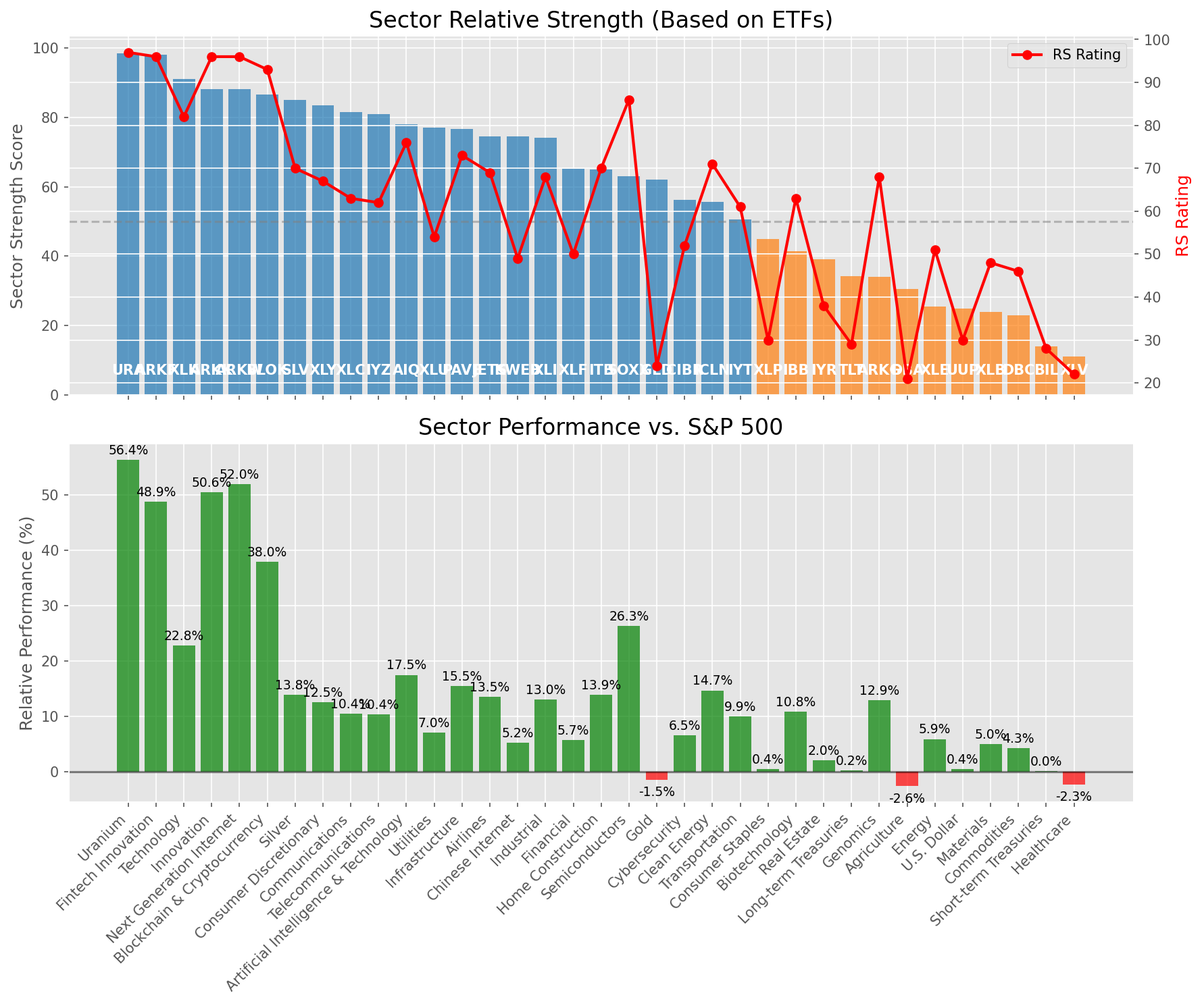
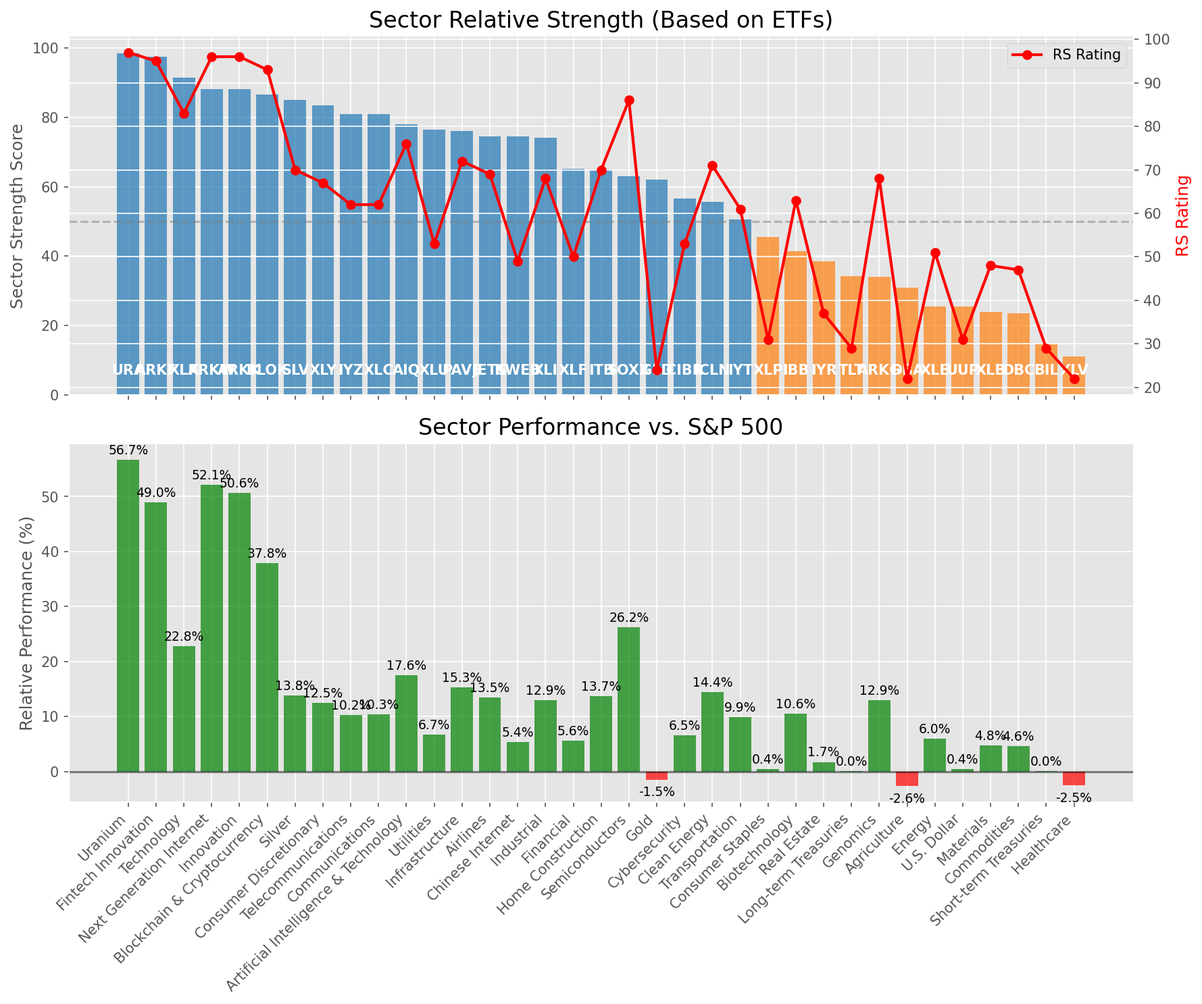
Add market report for 2025-08-06

diff --git a/oneil_relative_strength_report_2025-08-06.md b/oneil_relative_strength_report_2025-08-06.md
@@ -9,11 +9,11 @@
 | Metric | Value |
 |--------|-------|
 | **Market Valuation** | **Overvalued** |
-| **Current Ratio** | 10.26 |
+| **Current Ratio** | 10.25 |
 | **Historical Mean** | 9.62 |
 | **Standard Deviation** | 0.54 |
 | **Z-Score (StdDev from Mean)** | 1.06 |
-| **Total Market Cap** | $311.09 trillion |
+| **Total Market Cap** | $310.87 trillion |
 | **GDP** | $30.33 trillion |
 
 ## **Market Insights**
@@ -49,41 +49,41 @@ Based on William O'Neil's Relative Strength Methodology
 
 | ETF | Strength | RS Rating | Performance | Above Key MAs | Trend | Sector |
 |-----|----------|-----------|-------------|--------------|-------|--------|
-| [URA](https://www.tradingview.com/chart/?symbol=URA) | 98.5 | 97.0 | 56.42% | 10d ✓, 50d ✓, 200d ✓ | ↗ | Uranium |
-| [ARKF](https://www.tradingview.com/chart/?symbol=ARKF) | 98.0 | 96.0 | 48.87% | 10d ✓, 50d ✓, 200d ✓ | ↗ | Fintech Innovation |
-| [XLK](https://www.tradingview.com/chart/?symbol=XLK) | 91.0 | 82.0 | 22.84% | 10d ✓, 50d ✓, 200d ✓ | ↗ | Technology |
-| [ARKK](https://www.tradingview.com/chart/?symbol=ARKK) | 88.1 | 96.0 | 50.58% | 10d ✗, 50d ✓, 200d ✓ | ↗ | Innovation |
-| [ARKW](https://www.tradingview.com/chart/?symbol=ARKW) | 88.1 | 96.0 | 52.01% | 10d ✗, 50d ✓, 200d ✓ | ↗ | Next Generation Internet |
-| [BLOK](https://www.tradingview.com/chart/?symbol=BLOK) | 86.6 | 93.0 | 37.97% | 10d ✗, 50d ✓, 200d ✓ | ↗ | Blockchain & Cryptocurrency |
-| [SLV](https://www.tradingview.com/chart/?symbol=SLV) | 85.0 | 70.0 | 13.82% | 10d ✓, 50d ✓, 200d ✓ | ↗ | Silver |
-| [XLY](https://www.tradingview.com/chart/?symbol=XLY) | 83.5 | 67.0 | 12.49% | 10d ✓, 50d ✓, 200d ✓ | ↗ | Consumer Discretionary |
-| [XLC](https://www.tradingview.com/chart/?symbol=XLC) | 81.5 | 63.0 | 10.43% | 10d ✓, 50d ✓, 200d ✓ | ↗ | Communications |
-| [IYZ](https://www.tradingview.com/chart/?symbol=IYZ) | 81.0 | 62.0 | 10.37% | 10d ✓, 50d ✓, 200d ✓ | ↗ | Telecommunications |
-| [AIQ](https://www.tradingview.com/chart/?symbol=AIQ) | 78.1 | 76.0 | 17.48% | 10d ✗, 50d ✓, 200d ✓ | ↗ | Artificial Intelligence & Technology |
-| [XLU](https://www.tradingview.com/chart/?symbol=XLU) | 77.0 | 54.0 | 7.02% | 10d ✓, 50d ✓, 200d ✓ | ↗ | Utilities |
-| [PAVE](https://www.tradingview.com/chart/?symbol=PAVE) | 76.6 | 73.0 | 15.50% | 10d ✗, 50d ✓, 200d ✓ | ↗ | Infrastructure |
-| [JETS](https://www.tradingview.com/chart/?symbol=JETS) | 74.6 | 69.0 | 13.53% | 10d ✗, 50d ✓, 200d ✓ | ↗ | Airlines |
-| [KWEB](https://www.tradingview.com/chart/?symbol=KWEB) | 74.5 | 49.0 | 5.19% | 10d ✓, 50d ✓, 200d ✓ | ↗ | Chinese Internet |
-| [XLI](https://www.tradingview.com/chart/?symbol=XLI) | 74.1 | 68.0 | 13.03% | 10d ✗, 50d ✓, 200d ✓ | ↗ | Industrial |
-| [XLF](https://www.tradingview.com/chart/?symbol=XLF) | 65.1 | 50.0 | 5.71% | 10d ✗, 50d ✓, 200d ✓ | ↗ | Financial |
-| [ITB](https://www.tradingview.com/chart/?symbol=ITB) | 65.0 | 70.0 | 13.91% | 10d ✓, 50d ✓, 200d ✓ | ↘ | Home Construction |
-| [SOXX](https://www.tradingview.com/chart/?symbol=SOXX) | 63.1 | 86.0 | 26.31% | 10d ✗, 50d ✓, 200d ✓ | ↘ | Semiconductors |
-| [GLD](https://www.tradingview.com/chart/?symbol=GLD) | 62.0 | 24.0 | -1.49% | 10d ✓, 50d ✓, 200d ✓ | ↗ | Gold |
-| [CIBR](https://www.tradingview.com/chart/?symbol=CIBR) | 56.2 | 52.0 | 6.52% | 10d ✗, 50d ✗, 200d ✓ | ↗ | Cybersecurity |
-| [ICLN](https://www.tradingview.com/chart/?symbol=ICLN) | 55.6 | 71.0 | 14.66% | 10d ✗, 50d ✓, 200d ✓ | ↘ | Clean Energy |
-| [IYT](https://www.tradingview.com/chart/?symbol=IYT) | 50.6 | 61.0 | 9.95% | 10d ✗, 50d ✓, 200d ✓ | ↘ | Transportation |
-| [XLP](https://www.tradingview.com/chart/?symbol=XLP) | 45.0 | 30.0 | 0.40% | 10d ✓, 50d ✓, 200d ✓ | ↘ | Consumer Staples |
-| [IBB](https://www.tradingview.com/chart/?symbol=IBB) | 41.4 | 63.0 | 10.77% | 10d ✗, 50d ✓, 200d ✗ | ↘ | Biotechnology |
-| [IYR](https://www.tradingview.com/chart/?symbol=IYR) | 39.1 | 38.0 | 2.04% | 10d ✗, 50d ✓, 200d ✓ | ↘ | Real Estate |
-| [TLT](https://www.tradingview.com/chart/?symbol=TLT) | 34.3 | 29.0 | 0.18% | 10d ✓, 50d ✓, 200d ✗ | ↘ | Long-term Treasuries |
+| [URA](https://www.tradingview.com/chart/?symbol=URA) | 98.5 | 97.0 | 56.71% | 10d ✓, 50d ✓, 200d ✓ | ↗ | Uranium |
+| [ARKF](https://www.tradingview.com/chart/?symbol=ARKF) | 97.5 | 95.0 | 48.98% | 10d ✓, 50d ✓, 200d ✓ | ↗ | Fintech Innovation |
+| [XLK](https://www.tradingview.com/chart/?symbol=XLK) | 91.5 | 83.0 | 22.75% | 10d ✓, 50d ✓, 200d ✓ | ↗ | Technology |
+| [ARKW](https://www.tradingview.com/chart/?symbol=ARKW) | 88.1 | 96.0 | 52.10% | 10d ✗, 50d ✓, 200d ✓ | ↗ | Next Generation Internet |
+| [ARKK](https://www.tradingview.com/chart/?symbol=ARKK) | 88.1 | 96.0 | 50.62% | 10d ✗, 50d ✓, 200d ✓ | ↗ | Innovation |
+| [BLOK](https://www.tradingview.com/chart/?symbol=BLOK) | 86.6 | 93.0 | 37.84% | 10d ✗, 50d ✓, 200d ✓ | ↗ | Blockchain & Cryptocurrency |
+| [SLV](https://www.tradingview.com/chart/?symbol=SLV) | 85.0 | 70.0 | 13.80% | 10d ✓, 50d ✓, 200d ✓ | ↗ | Silver |
+| [XLY](https://www.tradingview.com/chart/?symbol=XLY) | 83.5 | 67.0 | 12.50% | 10d ✓, 50d ✓, 200d ✓ | ↗ | Consumer Discretionary |
+| [IYZ](https://www.tradingview.com/chart/?symbol=IYZ) | 81.0 | 62.0 | 10.21% | 10d ✓, 50d ✓, 200d ✓ | ↗ | Telecommunications |
+| [XLC](https://www.tradingview.com/chart/?symbol=XLC) | 81.0 | 62.0 | 10.35% | 10d ✓, 50d ✓, 200d ✓ | ↗ | Communications |
+| [AIQ](https://www.tradingview.com/chart/?symbol=AIQ) | 78.1 | 76.0 | 17.56% | 10d ✗, 50d ✓, 200d ✓ | ↗ | Artificial Intelligence & Technology |
+| [XLU](https://www.tradingview.com/chart/?symbol=XLU) | 76.5 | 53.0 | 6.69% | 10d ✓, 50d ✓, 200d ✓ | ↗ | Utilities |
+| [PAVE](https://www.tradingview.com/chart/?symbol=PAVE) | 76.1 | 72.0 | 15.27% | 10d ✗, 50d ✓, 200d ✓ | ↗ | Infrastructure |
+| [JETS](https://www.tradingview.com/chart/?symbol=JETS) | 74.6 | 69.0 | 13.46% | 10d ✗, 50d ✓, 200d ✓ | ↗ | Airlines |
+| [KWEB](https://www.tradingview.com/chart/?symbol=KWEB) | 74.5 | 49.0 | 5.36% | 10d ✓, 50d ✓, 200d ✓ | ↗ | Chinese Internet |
+| [XLI](https://www.tradingview.com/chart/?symbol=XLI) | 74.1 | 68.0 | 12.91% | 10d ✗, 50d ✓, 200d ✓ | ↗ | Industrial |
+| [XLF](https://www.tradingview.com/chart/?symbol=XLF) | 65.1 | 50.0 | 5.55% | 10d ✗, 50d ✓, 200d ✓ | ↗ | Financial |
+| [ITB](https://www.tradingview.com/chart/?symbol=ITB) | 65.0 | 70.0 | 13.73% | 10d ✓, 50d ✓, 200d ✓ | ↘ | Home Construction |
+| [SOXX](https://www.tradingview.com/chart/?symbol=SOXX) | 63.1 | 86.0 | 26.23% | 10d ✗, 50d ✓, 200d ✓ | ↘ | Semiconductors |
+| [GLD](https://www.tradingview.com/chart/?symbol=GLD) | 62.0 | 24.0 | -1.51% | 10d ✓, 50d ✓, 200d ✓ | ↗ | Gold |
+| [CIBR](https://www.tradingview.com/chart/?symbol=CIBR) | 56.7 | 53.0 | 6.54% | 10d ✗, 50d ✗, 200d ✓ | ↗ | Cybersecurity |
+| [ICLN](https://www.tradingview.com/chart/?symbol=ICLN) | 55.6 | 71.0 | 14.41% | 10d ✗, 50d ✓, 200d ✓ | ↘ | Clean Energy |
+| [IYT](https://www.tradingview.com/chart/?symbol=IYT) | 50.6 | 61.0 | 9.91% | 10d ✗, 50d ✓, 200d ✓ | ↘ | Transportation |
+| [XLP](https://www.tradingview.com/chart/?symbol=XLP) | 45.5 | 31.0 | 0.43% | 10d ✓, 50d ✓, 200d ✓ | ↘ | Consumer Staples |
+| [IBB](https://www.tradingview.com/chart/?symbol=IBB) | 41.4 | 63.0 | 10.56% | 10d ✗, 50d ✓, 200d ✗ | ↘ | Biotechnology |
+| [IYR](https://www.tradingview.com/chart/?symbol=IYR) | 38.6 | 37.0 | 1.73% | 10d ✗, 50d ✓, 200d ✓ | ↘ | Real Estate |
+| [TLT](https://www.tradingview.com/chart/?symbol=TLT) | 34.3 | 29.0 | 0.05% | 10d ✓, 50d ✓, 200d ✗ | ↘ | Long-term Treasuries |
 | [ARKG](https://www.tradingview.com/chart/?symbol=ARKG) | 34.0 | 68.0 | 12.93% | 10d ✗, 50d ✗, 200d ✗ | ↘ | Genomics |
-| [DBA](https://www.tradingview.com/chart/?symbol=DBA) | 30.5 | 21.0 | -2.63% | 10d ✗, 50d ✗, 200d ✗ | ↗ | Agriculture |
-| [XLE](https://www.tradingview.com/chart/?symbol=XLE) | 25.5 | 51.0 | 5.86% | 10d ✗, 50d ✗, 200d ✗ | ↘ | Energy |
-| [UUP](https://www.tradingview.com/chart/?symbol=UUP) | 24.9 | 30.0 | 0.38% | 10d ✗, 50d ✓, 200d ✗ | ↘ | U.S. Dollar |
-| [XLB](https://www.tradingview.com/chart/?symbol=XLB) | 24.0 | 48.0 | 4.97% | 10d ✗, 50d ✗, 200d ✗ | ↘ | Materials |
-| [DBC](https://www.tradingview.com/chart/?symbol=DBC) | 23.0 | 46.0 | 4.26% | 10d ✗, 50d ✗, 200d ✗ | ↘ | Commodities |
-| [BIL](https://www.tradingview.com/chart/?symbol=BIL) | 14.0 | 28.0 | 0.03% | 10d ✗, 50d ✗, 200d ✗ | ↘ | Short-term Treasuries |
-| [XLV](https://www.tradingview.com/chart/?symbol=XLV) | 11.0 | 22.0 | -2.34% | 10d ✗, 50d ✗, 200d ✗ | ↘ | Healthcare |
+| [DBA](https://www.tradingview.com/chart/?symbol=DBA) | 31.0 | 22.0 | -2.63% | 10d ✗, 50d ✗, 200d ✗ | ↗ | Agriculture |
+| [XLE](https://www.tradingview.com/chart/?symbol=XLE) | 25.5 | 51.0 | 5.99% | 10d ✗, 50d ✗, 200d ✗ | ↘ | Energy |
+| [UUP](https://www.tradingview.com/chart/?symbol=UUP) | 25.4 | 31.0 | 0.42% | 10d ✗, 50d ✓, 200d ✗ | ↘ | U.S. Dollar |
+| [XLB](https://www.tradingview.com/chart/?symbol=XLB) | 24.0 | 48.0 | 4.78% | 10d ✗, 50d ✗, 200d ✗ | ↘ | Materials |
+| [DBC](https://www.tradingview.com/chart/?symbol=DBC) | 23.5 | 47.0 | 4.63% | 10d ✗, 50d ✗, 200d ✗ | ↘ | Commodities |
+| [BIL](https://www.tradingview.com/chart/?symbol=BIL) | 14.5 | 29.0 | 0.03% | 10d ✗, 50d ✗, 200d ✗ | ↘ | Short-term Treasuries |
+| [XLV](https://www.tradingview.com/chart/?symbol=XLV) | 11.0 | 22.0 | -2.54% | 10d ✗, 50d ✗, 200d ✗ | ↘ | Healthcare |
 
 ### **Sector ETF Performance Interpretation**
 
@@ -100,75 +100,71 @@ This table shows the relative strength metrics for different market sectors base
 
 The current market leadership is coming from the following sectors: **Uranium, Fintech Innovation, Technology**.
 
-The **Uranium** sector (represented by **URA**) is showing particularly strong relative strength with an RS rating of 97.0 and performance of 56.42% vs. the S&P 500. This sector is trading above its 10-day, 50-day, 200-day moving average(s). Investors should consider focusing on high RS stocks within these leading sectors for potential outperformance.
+The **Uranium** sector (represented by **URA**) is showing particularly strong relative strength with an RS rating of 97.0 and performance of 56.71% vs. the S&P 500. This sector is trading above its 10-day, 50-day, 200-day moving average(s). Investors should consider focusing on high RS stocks within these leading sectors for potential outperformance.
 
 ---
 
 ## **Buy Recommendations**
 
-The following 59 stocks show exceptional relative strength:
+The following 55 stocks show exceptional relative strength:
 
 | RS Rating | Buy Score | Current Price | Chart | Name | Ticker |
 |-----------|-----------|---------------|-------|------|--------|
-| 100 | 100 | $116.48 | [Chart](https://www.tradingview.com/chart/?symbol=CRDO) | Credo Technology Group Holding Ltd Ordinary Shares | CRDO |
-| 100 | 100 | $68.01 | [Chart](https://www.tradingview.com/chart/?symbol=MP) | MP Materials Corp. | MP |
-| 100 | 100 | $196.78 | [Chart](https://www.tradingview.com/chart/?symbol=CLS) | Celestica, Inc. | CLS |
-| 100 | 100 | $248.63 | [Chart](https://www.tradingview.com/chart/?symbol=LEU) | Centrus Energy Corp. | LEU |
-| 99 | 100 | $76.51 | [Chart](https://www.tradingview.com/chart/?symbol=LIF) | Life360, Inc. Common Stock | LIF |
-| 99 | 100 | $211.81 | [Chart](https://www.tradingview.com/chart/?symbol=NET) | Cloudflare, Inc. Class A common stock, par value $0.001 per share | NET |
-| 99 | 100 | $132.05 | [Chart](https://www.tradingview.com/chart/?symbol=RBLX) | Roblox Corporation | RBLX |
-| 98 | 100 | $382.64 | [Chart](https://www.tradingview.com/chart/?symbol=TLN) | Talen Energy Corporation Common Stock | TLN |
-| 98 | 100 | $59.28 | [Chart](https://www.tradingview.com/chart/?symbol=KTOS) | Kratos Defense & Security Solutions, Inc. | KTOS |
-| 98 | 100 | $177.99 | [Chart](https://www.tradingview.com/chart/?symbol=PLTR) | Palantir Technologies Inc. Class A Common Stock | PLTR |
-| 98 | 100 | $661.48 | [Chart](https://www.tradingview.com/chart/?symbol=GEV) | GE Vernova Inc. | GEV |
-| 97 | 100 | $112.41 | [Chart](https://www.tradingview.com/chart/?symbol=TPR) | Tapestry, Inc. Common Stock | TPR |
-| 97 | 100 | $39.03 | [Chart](https://www.tradingview.com/chart/?symbol=NNE) | Nano Nuclear Energy Inc. Common Stock | NNE |
-| 97 | 100 | $187.71 | [Chart](https://www.tradingview.com/chart/?symbol=COOP) | Mr. Cooper Group Inc. Common Stock | COOP |
-| 96 | 100 | $105.25 | [Chart](https://www.tradingview.com/chart/?symbol=VRNA) | Verona Pharma plc | VRNA |
-| 96 | 100 | $53.19 | [Chart](https://www.tradingview.com/chart/?symbol=ARKF) | ARK Fintech Innovation ETF | ARKF |
-| 96 | 100 | $35.80 | [Chart](https://www.tradingview.com/chart/?symbol=ATRO) | Astronics Corp | ATRO |
-| 95 | 100 | $90.34 | [Chart](https://www.tradingview.com/chart/?symbol=RYTM) | Rhythm Pharmaceuticals, Inc. Common Stock | RYTM |
-| 95 | 100 | $875.59 | [Chart](https://www.tradingview.com/chart/?symbol=AXON) | Axon Enterprise, Inc. Common Stock | AXON |
-| 95 | 100 | $116.64 | [Chart](https://www.tradingview.com/chart/?symbol=SANM) | Sanmina  Corp | SANM |
-| 94 | 100 | $51.01 | [Chart](https://www.tradingview.com/chart/?symbol=PTCT) | PTC Therapeutics, Inc. | PTCT |
+| 100 | 100 | $66.94 | [Chart](https://www.tradingview.com/chart/?symbol=MP) | MP Materials Corp. | MP |
+| 100 | 100 | $117.81 | [Chart](https://www.tradingview.com/chart/?symbol=CRDO) | Credo Technology Group Holding Ltd Ordinary Shares | CRDO |
+| 100 | 100 | $247.44 | [Chart](https://www.tradingview.com/chart/?symbol=LEU) | Centrus Energy Corp. | LEU |
+| 100 | 100 | $197.17 | [Chart](https://www.tradingview.com/chart/?symbol=CLS) | Celestica, Inc. | CLS |
+| 99 | 100 | $212.51 | [Chart](https://www.tradingview.com/chart/?symbol=NET) | Cloudflare, Inc. Class A common stock, par value $0.001 per share | NET |
+| 99 | 100 | $132.86 | [Chart](https://www.tradingview.com/chart/?symbol=RBLX) | Roblox Corporation | RBLX |
+| 99 | 100 | $77.18 | [Chart](https://www.tradingview.com/chart/?symbol=LIF) | Life360, Inc. Common Stock | LIF |
+| 98 | 100 | $177.19 | [Chart](https://www.tradingview.com/chart/?symbol=PLTR) | Palantir Technologies Inc. Class A Common Stock | PLTR |
+| 98 | 100 | $382.00 | [Chart](https://www.tradingview.com/chart/?symbol=TLN) | Talen Energy Corporation Common Stock | TLN |
+| 98 | 100 | $661.56 | [Chart](https://www.tradingview.com/chart/?symbol=GEV) | GE Vernova Inc. | GEV |
+| 98 | 100 | $59.72 | [Chart](https://www.tradingview.com/chart/?symbol=KTOS) | Kratos Defense & Security Solutions, Inc. | KTOS |
+| 97 | 100 | $187.76 | [Chart](https://www.tradingview.com/chart/?symbol=COOP) | Mr. Cooper Group Inc. Common Stock | COOP |
+| 97 | 100 | $39.11 | [Chart](https://www.tradingview.com/chart/?symbol=NNE) | Nano Nuclear Energy Inc. Common Stock | NNE |
+| 96 | 100 | $112.06 | [Chart](https://www.tradingview.com/chart/?symbol=TPR) | Tapestry, Inc. Common Stock | TPR |
+| 96 | 100 | $35.33 | [Chart](https://www.tradingview.com/chart/?symbol=ATRO) | Astronics Corp | ATRO |
+| 95 | 100 | $116.17 | [Chart](https://www.tradingview.com/chart/?symbol=SANM) | Sanmina  Corp | SANM |
+| 95 | 100 | $877.37 | [Chart](https://www.tradingview.com/chart/?symbol=AXON) | Axon Enterprise, Inc. Common Stock | AXON |
+| 95 | 100 | $53.23 | [Chart](https://www.tradingview.com/chart/?symbol=ARKF) | ARK Fintech Innovation ETF | ARKF |
+| 95 | 100 | $28.15 | [Chart](https://www.tradingview.com/chart/?symbol=KAR) | OPENLANE, Inc | KAR |
 | 94 | 100 | $51.45 | [Chart](https://www.tradingview.com/chart/?symbol=BBW) | Build-A-Bear Workshop, Inc. | BBW |
-| 94 | 100 | $27.56 | [Chart](https://www.tradingview.com/chart/?symbol=KAR) | OPENLANE, Inc | KAR |
-| 94 | 100 | $91.74 | [Chart](https://www.tradingview.com/chart/?symbol=TPB) | Turning Point Brands, Inc. | TPB |
-| 93 | 100 | $21.54 | [Chart](https://www.tradingview.com/chart/?symbol=MAG) | MAG Silver Corp. | MAG |
-| 93 | 100 | $109.43 | [Chart](https://www.tradingview.com/chart/?symbol=APH) | Amphenol Corporation | APH |
+| 94 | 100 | $93.14 | [Chart](https://www.tradingview.com/chart/?symbol=TPB) | Turning Point Brands, Inc. | TPB |
+| 94 | 100 | $50.99 | [Chart](https://www.tradingview.com/chart/?symbol=PTCT) | PTC Therapeutics, Inc. | PTCT |
+| 94 | 100 | $90.22 | [Chart](https://www.tradingview.com/chart/?symbol=RYTM) | Rhythm Pharmaceuticals, Inc. Common Stock | RYTM |
+| 93 | 100 | $21.52 | [Chart](https://www.tradingview.com/chart/?symbol=MAG) | MAG Silver Corp. | MAG |
 | 93 | 100 | $49.63 | [Chart](https://www.tradingview.com/chart/?symbol=REVG) | REV Group, Inc. | REVG |
-| 93 | 100 | $508.90 | [Chart](https://www.tradingview.com/chart/?symbol=CW) | Curtiss-Wright Corp. | CW |
-| 92 | 100 | $257.58 | [Chart](https://www.tradingview.com/chart/?symbol=DASH) | DoorDash, Inc. Class A Common Stock | DASH |
-| 92 | 100 | $351.36 | [Chart](https://www.tradingview.com/chart/?symbol=CVNA) | Carvana Co. | CVNA |
-| 91 | 100 | $43.19 | [Chart](https://www.tradingview.com/chart/?symbol=LTM) | LATAM Airlines Group S.A. American Depositary Shares (each representing two thousand (2,000) shares of Common Stock) | LTM |
+| 93 | 100 | $509.92 | [Chart](https://www.tradingview.com/chart/?symbol=CW) | Curtiss-Wright Corp. | CW |
+| 93 | 100 | $109.23 | [Chart](https://www.tradingview.com/chart/?symbol=APH) | Amphenol Corporation | APH |
+| 92 | 100 | $257.43 | [Chart](https://www.tradingview.com/chart/?symbol=DASH) | DoorDash, Inc. Class A Common Stock | DASH |
+| 92 | 100 | $353.27 | [Chart](https://www.tradingview.com/chart/?symbol=CVNA) | Carvana Co. | CVNA |
+| 91 | 100 | $39.09 | [Chart](https://www.tradingview.com/chart/?symbol=ZLAB) | Zai Lab Limited American Depositary Shares | ZLAB |
+| 90 | 100 | $92.58 | [Chart](https://www.tradingview.com/chart/?symbol=EBAY) | eBay Inc | EBAY |
 | 90 | 100 | $57.91 | [Chart](https://www.tradingview.com/chart/?symbol=AU) | AngloGold Ashanti plc | AU |
-| 90 | 100 | $38.81 | [Chart](https://www.tradingview.com/chart/?symbol=ZLAB) | Zai Lab Limited American Depositary Shares | ZLAB |
-| 90 | 100 | $92.50 | [Chart](https://www.tradingview.com/chart/?symbol=EBAY) | eBay Inc | EBAY |
-| 90 | 100 | $274.40 | [Chart](https://www.tradingview.com/chart/?symbol=GE) | GE Aerospace | GE |
-| 90 | 100 | $726.76 | [Chart](https://www.tradingview.com/chart/?symbol=GS) | Goldman Sachs Group Inc. | GS |
-| 89 | 100 | $34.72 | [Chart](https://www.tradingview.com/chart/?symbol=DB) | Deutsche Bank Aktiengesellschaft | DB |
+| 90 | 100 | $273.97 | [Chart](https://www.tradingview.com/chart/?symbol=GE) | GE Aerospace | GE |
+| 90 | 100 | $724.90 | [Chart](https://www.tradingview.com/chart/?symbol=GS) | Goldman Sachs Group Inc. | GS |
+| 89 | 100 | $34.66 | [Chart](https://www.tradingview.com/chart/?symbol=DB) | Deutsche Bank Aktiengesellschaft | DB |
+| 89 | 100 | $42.93 | [Chart](https://www.tradingview.com/chart/?symbol=LTM) | LATAM Airlines Group S.A. American Depositary Shares (each representing two thousand (2,000) shares of Common Stock) | LTM |
 | 88 | 100 | $158.47 | [Chart](https://www.tradingview.com/chart/?symbol=VSEC) | VSE Corp | VSEC |
-| 89 | 99 | $20.13 | [Chart](https://www.tradingview.com/chart/?symbol=LQDA) | Liquidia Corporation Common Stock | LQDA |
-| 87 | 99 | $56.51 | [Chart](https://www.tradingview.com/chart/?symbol=BTI) | British American Tobacco p.l.c. American Depositary Shares, American Depositary Shares, each representing one Ordinary Share | BTI |
+| 89 | 99 | $20.37 | [Chart](https://www.tradingview.com/chart/?symbol=LQDA) | Liquidia Corporation Common Stock | LQDA |
 | 86 | 99 | $269.60 | [Chart](https://www.tradingview.com/chart/?symbol=IDCC) | InterDigital, Inc. | IDCC |
+| 86 | 98 | $56.44 | [Chart](https://www.tradingview.com/chart/?symbol=BTI) | British American Tobacco p.l.c. American Depositary Shares, American Depositary Shares, each representing one Ordinary Share | BTI |
+| 85 | 98 | $57.97 | [Chart](https://www.tradingview.com/chart/?symbol=ERJ) | Embraer S.A. | ERJ |
 | 87 | 97 | $190.76 | [Chart](https://www.tradingview.com/chart/?symbol=AWI) | Armstrong World Industries, Inc. | AWI |
-| 84 | 97 | $57.77 | [Chart](https://www.tradingview.com/chart/?symbol=ERJ) | Embraer S.A. | ERJ |
-| 84 | 97 | $40.43 | [Chart](https://www.tradingview.com/chart/?symbol=AHR) | American Healthcare REIT, Inc. | AHR |
-| 86 | 96 | $383.58 | [Chart](https://www.tradingview.com/chart/?symbol=APP) | Applovin Corporation Class A Common Stock | APP |
-| 85 | 95 | $52.44 | [Chart](https://www.tradingview.com/chart/?symbol=AKRO) | Akero Therapeutics, Inc. Common Stock | AKRO |
+| 84 | 97 | $40.22 | [Chart](https://www.tradingview.com/chart/?symbol=AHR) | American Healthcare REIT, Inc. | AHR |
+| 86 | 96 | $384.09 | [Chart](https://www.tradingview.com/chart/?symbol=APP) | Applovin Corporation Class A Common Stock | APP |
+| 85 | 95 | $52.69 | [Chart](https://www.tradingview.com/chart/?symbol=AKRO) | Akero Therapeutics, Inc. Common Stock | AKRO |
 | 84 | 95 | $198.18 | [Chart](https://www.tradingview.com/chart/?symbol=ITA) | iShares U.S. Aerospace & Defense ETF | ITA |
-| 83 | 95 | $101.89 | [Chart](https://www.tradingview.com/chart/?symbol=BK) | Bank of New York Mellon Corporation | BK |
-| 82 | 95 | $90.54 | [Chart](https://www.tradingview.com/chart/?symbol=RBRK) | Rubrik, Inc. | RBRK |
-| 81 | 95 | $19.58 | [Chart](https://www.tradingview.com/chart/?symbol=BCS) | Barclays PLC | BCS |
-| 84 | 94 | $51.53 | [Chart](https://www.tradingview.com/chart/?symbol=SIL) | Global X Silver Miners ETF (NEW) | SIL |
-| 83 | 93 | $96.55 | [Chart](https://www.tradingview.com/chart/?symbol=NDAQ) | Nasdaq, Inc. Common Stock | NDAQ |
-| 82 | 93 | $114.29 | [Chart](https://www.tradingview.com/chart/?symbol=SXT) | Sensient Technology Corporation | SXT |
-| 81 | 93 | $29.45 | [Chart](https://www.tradingview.com/chart/?symbol=OR) | OR Royalties Inc. | OR |
-| 80 | 93 | $63.57 | [Chart](https://www.tradingview.com/chart/?symbol=SHLD) | Global X Defense Tech ETF | SHLD |
-| 82 | 92 | $263.40 | [Chart](https://www.tradingview.com/chart/?symbol=WTS) | Watts Water Technologies, Inc. Class A | WTS |
-| 82 | 92 | $51.42 | [Chart](https://www.tradingview.com/chart/?symbol=FHI) | Federated Hermes, Inc. | FHI |
-| 80 | 92 | $319.83 | [Chart](https://www.tradingview.com/chart/?symbol=FFIV) | F5, Inc. Common Stock | FFIV |
-| 80 | 91 | $147.62 | [Chart](https://www.tradingview.com/chart/?symbol=PPA) | Invesco Aerospace & Defense ETF | PPA |
+| 82 | 95 | $90.52 | [Chart](https://www.tradingview.com/chart/?symbol=RBRK) | Rubrik, Inc. | RBRK |
+| 84 | 94 | $51.42 | [Chart](https://www.tradingview.com/chart/?symbol=SIL) | Global X Silver Miners ETF (NEW) | SIL |
+| 82 | 94 | $29.53 | [Chart](https://www.tradingview.com/chart/?symbol=OR) | OR Royalties Inc. | OR |
+| 82 | 94 | $101.63 | [Chart](https://www.tradingview.com/chart/?symbol=BK) | Bank of New York Mellon Corporation | BK |
+| 83 | 93 | $263.75 | [Chart](https://www.tradingview.com/chart/?symbol=WTS) | Watts Water Technologies, Inc. Class A | WTS |
+| 83 | 93 | $96.44 | [Chart](https://www.tradingview.com/chart/?symbol=NDAQ) | Nasdaq, Inc. Common Stock | NDAQ |
+| 80 | 93 | $63.63 | [Chart](https://www.tradingview.com/chart/?symbol=SHLD) | Global X Defense Tech ETF | SHLD |
+| 82 | 92 | $51.30 | [Chart](https://www.tradingview.com/chart/?symbol=FHI) | Federated Hermes, Inc. | FHI |
+| 81 | 92 | $147.67 | [Chart](https://www.tradingview.com/chart/?symbol=PPA) | Invesco Aerospace & Defense ETF | PPA |
 
 ---
 
@@ -179,51 +175,51 @@ The following 45 stocks show deteriorating relative strength:
 
 | RS Rating | Sell Score | Current Price | Chart | Name | Ticker |
 |-----------|------------|---------------|-------|------|--------|
-| 1 | 100 | $11.93 | [Chart](https://www.tradingview.com/chart/?symbol=NVDS) | Investment Managers Series Trust II Tradr 1.5X Short NVDA Daily ETF | NVDS |
-| 2 | 100 | $16.09 | [Chart](https://www.tradingview.com/chart/?symbol=DJT) | Trump Media & Technology Group Corp. Common Stock | DJT |
-| 2 | 100 | $13.74 | [Chart](https://www.tradingview.com/chart/?symbol=CLBT) | Cellebrite DI Ltd. Class A Ordinary Shares | CLBT |
-| 4 | 100 | $41.36 | [Chart](https://www.tradingview.com/chart/?symbol=SDOW) | ProShares UltraPro Short Dow 30 | SDOW |
-| 4 | 100 | $24.50 | [Chart](https://www.tradingview.com/chart/?symbol=TBBB) | BBB Foods Inc. | TBBB |
+| 1 | 100 | $11.99 | [Chart](https://www.tradingview.com/chart/?symbol=NVDS) | Investment Managers Series Trust II Tradr 1.5X Short NVDA Daily ETF | NVDS |
+| 2 | 100 | $13.77 | [Chart](https://www.tradingview.com/chart/?symbol=CLBT) | Cellebrite DI Ltd. Class A Ordinary Shares | CLBT |
+| 2 | 100 | $16.20 | [Chart](https://www.tradingview.com/chart/?symbol=DJT) | Trump Media & Technology Group Corp. Common Stock | DJT |
+| 4 | 100 | $41.47 | [Chart](https://www.tradingview.com/chart/?symbol=SDOW) | ProShares UltraPro Short Dow 30 | SDOW |
+| 4 | 100 | $24.42 | [Chart](https://www.tradingview.com/chart/?symbol=TBBB) | BBB Foods Inc. | TBBB |
 | 6 | 100 | $10.37 | [Chart](https://www.tradingview.com/chart/?symbol=OEC) | Orion S.A. | OEC |
-| 8 | 100 | $46.34 | [Chart](https://www.tradingview.com/chart/?symbol=PRCT) | PROCEPT BioRobotics Corporation Common Stock | PRCT |
-| 8 | 100 | $36.23 | [Chart](https://www.tradingview.com/chart/?symbol=LZB) | La-Z-Boy Incorporated | LZB |
-| 10 | 100 | $55.01 | [Chart](https://www.tradingview.com/chart/?symbol=HRB) | H&R Block, Inc. | HRB |
-| 12 | 100 | $31.18 | [Chart](https://www.tradingview.com/chart/?symbol=JD) | JD.com, Inc. | JD |
-| 7 | 99 | $24.24 | [Chart](https://www.tradingview.com/chart/?symbol=DXD) | ProShares UltraShort Dow 30 | DXD |
-| 12 | 99 | $16.49 | [Chart](https://www.tradingview.com/chart/?symbol=CTO) | CTO Realty Growth, Inc. | CTO |
-| 8 | 98 | $19.82 | [Chart](https://www.tradingview.com/chart/?symbol=GAP) | The Gap, Inc. | GAP |
-| 9 | 98 | $39.04 | [Chart](https://www.tradingview.com/chart/?symbol=SH) | ProShares Short S&P500 | SH |
-| 9 | 98 | $12.56 | [Chart](https://www.tradingview.com/chart/?symbol=CDNA) | CareDx, Inc. | CDNA |
-| 15 | 96 | $13.12 | [Chart](https://www.tradingview.com/chart/?symbol=GOOD) | Gladstone Commercial Corporation - REIT | GOOD |
+| 8 | 100 | $46.41 | [Chart](https://www.tradingview.com/chart/?symbol=PRCT) | PROCEPT BioRobotics Corporation Common Stock | PRCT |
+| 10 | 100 | $36.42 | [Chart](https://www.tradingview.com/chart/?symbol=LZB) | La-Z-Boy Incorporated | LZB |
+| 10 | 100 | $54.85 | [Chart](https://www.tradingview.com/chart/?symbol=HRB) | H&R Block, Inc. | HRB |
+| 12 | 100 | $16.36 | [Chart](https://www.tradingview.com/chart/?symbol=CTO) | CTO Realty Growth, Inc. | CTO |
+| 13 | 100 | $31.24 | [Chart](https://www.tradingview.com/chart/?symbol=JD) | JD.com, Inc. | JD |
+| 7 | 99 | $24.27 | [Chart](https://www.tradingview.com/chart/?symbol=DXD) | ProShares UltraShort Dow 30 | DXD |
+| 9 | 98 | $39.07 | [Chart](https://www.tradingview.com/chart/?symbol=SH) | ProShares Short S&P500 | SH |
+| 8 | 97 | $19.88 | [Chart](https://www.tradingview.com/chart/?symbol=GAP) | The Gap, Inc. | GAP |
+| 14 | 97 | $13.08 | [Chart](https://www.tradingview.com/chart/?symbol=GOOD) | Gladstone Commercial Corporation - REIT | GOOD |
 | 9 | 95 | $15.25 | [Chart](https://www.tradingview.com/chart/?symbol=PLSE) | Pulse Biosciences, Inc Common Stock (DE) | PLSE |
-| 14 | 95 | $41.74 | [Chart](https://www.tradingview.com/chart/?symbol=BILL) | BILL Holdings, Inc. | BILL |
-| 14 | 95 | $13.31 | [Chart](https://www.tradingview.com/chart/?symbol=EWTX) | Edgewise Therapeutics, Inc. Common Stock | EWTX |
-| 8 | 94 | $10.06 | [Chart](https://www.tradingview.com/chart/?symbol=ACIC) | American Coastal Insurance Corporation Common Stock | ACIC |
+| 14 | 95 | $41.90 | [Chart](https://www.tradingview.com/chart/?symbol=BILL) | BILL Holdings, Inc. | BILL |
+| 14 | 95 | $13.36 | [Chart](https://www.tradingview.com/chart/?symbol=EWTX) | Edgewise Therapeutics, Inc. Common Stock | EWTX |
 | 12 | 94 | $19.45 | [Chart](https://www.tradingview.com/chart/?symbol=AVBP) | ArriVent BioPharma, Inc. Common Stock | AVBP |
-| 18 | 94 | $22.52 | [Chart](https://www.tradingview.com/chart/?symbol=CURB) | Curbline Properties Corp. | CURB |
-| 10 | 93 | $13.74 | [Chart](https://www.tradingview.com/chart/?symbol=OSPN) | OneSpan Inc. Common Stock | OSPN |
-| 16 | 93 | $36.77 | [Chart](https://www.tradingview.com/chart/?symbol=PBA) | PEMBINA PIPELINE CORPORATION | PBA |
-| 13 | 90 | $228.92 | [Chart](https://www.tradingview.com/chart/?symbol=WDAY) | Workday, Inc. Class A Common Stock | WDAY |
-| 17 | 90 | $12.84 | [Chart](https://www.tradingview.com/chart/?symbol=CCRN) | Cross Country Healthcare Inc | CCRN |
-| 19 | 90 | $16.07 | [Chart](https://www.tradingview.com/chart/?symbol=FIHL) | Fidelis Insurance Holdings Limited | FIHL |
+| 8 | 93 | $10.10 | [Chart](https://www.tradingview.com/chart/?symbol=ACIC) | American Coastal Insurance Corporation Common Stock | ACIC |
+| 16 | 93 | $12.83 | [Chart](https://www.tradingview.com/chart/?symbol=CCRN) | Cross Country Healthcare Inc | CCRN |
+| 19 | 93 | $22.52 | [Chart](https://www.tradingview.com/chart/?symbol=CURB) | Curbline Properties Corp. | CURB |
+| 10 | 92 | $13.78 | [Chart](https://www.tradingview.com/chart/?symbol=OSPN) | OneSpan Inc. Common Stock | OSPN |
+| 16 | 92 | $36.85 | [Chart](https://www.tradingview.com/chart/?symbol=PBA) | PEMBINA PIPELINE CORPORATION | PBA |
+| 11 | 91 | $14.01 | [Chart](https://www.tradingview.com/chart/?symbol=SBGI) | Sinclair, Inc. Class A Common Stock | SBGI |
+| 13 | 90 | $228.38 | [Chart](https://www.tradingview.com/chart/?symbol=WDAY) | Workday, Inc. Class A Common Stock | WDAY |
 | 22 | 90 | $44.23 | [Chart](https://www.tradingview.com/chart/?symbol=EPI) | WisdomTree India Earnings Fund ETF | EPI |
-| 16 | 89 | $86.02 | [Chart](https://www.tradingview.com/chart/?symbol=BIDU) | Baidu, Inc. | BIDU |
-| 19 | 85 | $21.06 | [Chart](https://www.tradingview.com/chart/?symbol=BLFS) | BioLife Solutions Inc. | BLFS |
+| 16 | 88 | $86.25 | [Chart](https://www.tradingview.com/chart/?symbol=BIDU) | Baidu, Inc. | BIDU |
+| 20 | 88 | $16.15 | [Chart](https://www.tradingview.com/chart/?symbol=FIHL) | Fidelis Insurance Holdings Limited | FIHL |
+| 21 | 86 | $12.65 | [Chart](https://www.tradingview.com/chart/?symbol=MED) | Medifast, Inc. | MED |
+| 19 | 84 | $21.13 | [Chart](https://www.tradingview.com/chart/?symbol=BLFS) | BioLife Solutions Inc. | BLFS |
 | 20 | 83 | $12.17 | [Chart](https://www.tradingview.com/chart/?symbol=WSR) | Whitestone REIT | WSR |
 | 21 | 83 | $17.47 | [Chart](https://www.tradingview.com/chart/?symbol=DIV) | Global X SuperDividend U.S. ETF | DIV |
-| 25 | 83 | $37.89 | [Chart](https://www.tradingview.com/chart/?symbol=VNO) | Vornado Realty Trust | VNO |
-| 29 | 81 | $50.24 | [Chart](https://www.tradingview.com/chart/?symbol=XHLF) | BondBloxx Bloomberg Six Month Target Duration US Treasury ETF | XHLF |
-| 20 | 80 | $10.26 | [Chart](https://www.tradingview.com/chart/?symbol=BRKL) | Brookline Bancorp Inc | BRKL |
-| 23 | 79 | $12.20 | [Chart](https://www.tradingview.com/chart/?symbol=NU) | Nu Holdings Ltd. | NU |
-| 29 | 79 | $12.40 | [Chart](https://www.tradingview.com/chart/?symbol=RQI) | COHEN & STEERS QUALITY INCOME REALTY FUND, INC. COMMON SHARES | RQI |
-| 28 | 77 | $23.30 | [Chart](https://www.tradingview.com/chart/?symbol=IBTF) | iShares iBonds Dec 2025 Term Treasury ETF | IBTF |
+| 25 | 83 | $37.90 | [Chart](https://www.tradingview.com/chart/?symbol=VNO) | Vornado Realty Trust | VNO |
+| 19 | 81 | $10.21 | [Chart](https://www.tradingview.com/chart/?symbol=BRKL) | Brookline Bancorp Inc | BRKL |
+| 29 | 81 | $50.25 | [Chart](https://www.tradingview.com/chart/?symbol=XHLF) | BondBloxx Bloomberg Six Month Target Duration US Treasury ETF | XHLF |
+| 29 | 78 | $12.39 | [Chart](https://www.tradingview.com/chart/?symbol=RQI) | COHEN & STEERS QUALITY INCOME REALTY FUND, INC. COMMON SHARES | RQI |
+| 24 | 77 | $12.24 | [Chart](https://www.tradingview.com/chart/?symbol=NU) | Nu Holdings Ltd. | NU |
+| 28 | 76 | $23.30 | [Chart](https://www.tradingview.com/chart/?symbol=IBTF) | iShares iBonds Dec 2025 Term Treasury ETF | IBTF |
+| 29 | 76 | $59.92 | [Chart](https://www.tradingview.com/chart/?symbol=FTSM) | First Trust Enhanced Short Maturity ETF | FTSM |
 | 30 | 74 | $30.74 | [Chart](https://www.tradingview.com/chart/?symbol=FLRN) | SPDR Bloomberg Investment Grade Floating Rate ETF | FLRN |
 | 28 | 73 | $23.92 | [Chart](https://www.tradingview.com/chart/?symbol=FFBC) | First Financial Bancorp | FFBC |
-| 31 | 73 | $56.71 | [Chart](https://www.tradingview.com/chart/?symbol=USRT) | iShares Core U.S. REIT ETF | USRT |
-| 36 | 70 | $51.97 | [Chart](https://www.tradingview.com/chart/?symbol=LW) | Lamb Weston Holdings, Inc. | LW |
-| 37 | 70 | $24.09 | [Chart](https://www.tradingview.com/chart/?symbol=FLBL) | Franklin Senior Loan ETF | FLBL |
-| 39 | 68 | $31.32 | [Chart](https://www.tradingview.com/chart/?symbol=IMCR) | Immunocore Holdings plc American Depositary Shares | IMCR |
-| 37 | 65 | $69.16 | [Chart](https://www.tradingview.com/chart/?symbol=PYPL) | PayPal Holdings, Inc. Common Stock | PYPL |
+| 36 | 70 | $51.96 | [Chart](https://www.tradingview.com/chart/?symbol=LW) | Lamb Weston Holdings, Inc. | LW |
+| 38 | 69 | $24.09 | [Chart](https://www.tradingview.com/chart/?symbol=FLBL) | Franklin Senior Loan ETF | FLBL |
+| 38 | 63 | $69.44 | [Chart](https://www.tradingview.com/chart/?symbol=PYPL) | PayPal Holdings, Inc. Common Stock | PYPL |
 
 ## **Methodology**
 
